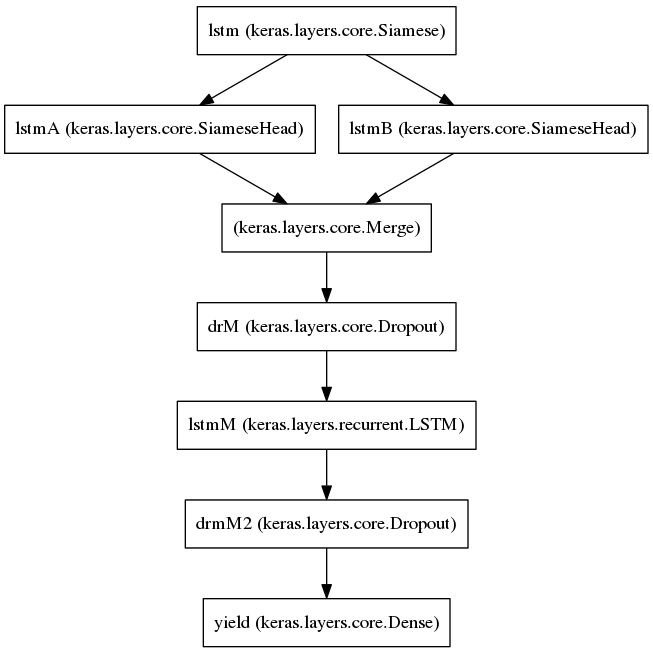
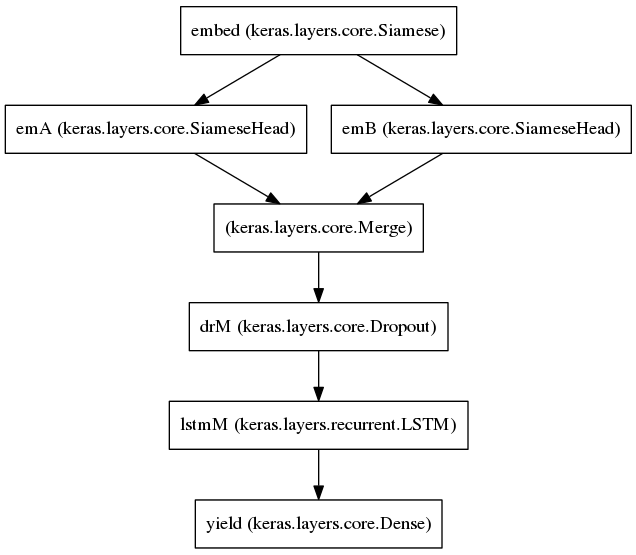
Simpler FP->yield model, still not working - Same output predicted for everything

Changed region(s): [[0.0, 0.0, 1.0, 1.0]]

diff --git a/makeit/main/neural_fingerprints_to_yield.py b/makeit/main/neural_fingerprints_to_yield.py
@@ -22,36 +22,51 @@ def get_model_fpath():
 		return fpath + '_{}'.format(flabel)
 	return fpath
 
-def build_model(fp_size = 2048, embedding_size = 100, dropout = 0.75):
+def build_model(fp_size = 2048, embedding_size = 8, dropout = 0.75):
 	'''Uses fingerprints for two chemicals to predict the yield of a reaction
 	between them, ignoring the chemical species of that product'''
 
 	# Base model
 	model = Graph()
 
+	# # Inputs
+	# model.add_input(name = 'fpA', input_shape = (fp_size, ), dtype = 'bool')
+	# model.add_input(name = 'fpB', input_shape = (fp_size, ), dtype = 'bool')
+	# # Embebdding
+	# embedding = Embedding(output_dim = embedding_size, input_dim = fp_size, 
+	# 	init = 'glorot_normal')
+	# model.add_shared_node(embedding, 'embed', inputs = ['fpA', 'fpB'], 
+	# 	outputs = ['emA', 'emB'])
+	# model.add_shared_node(Dropout(dropout), 'dropout', inputs = ['emA', 'emB'], 
+	# 	outputs = ['drA', 'drB'])
+	# model.add_shared_node(LSTM(output_dim = embedding_size, activation = 'tanh', 
+	# 	return_sequences = True), 'lstm', inputs = ['drA', 'drB'], 
+	# 	outputs = ['lstmA', 'lstmB'])
+	# # Merge
+	# model.add_node(Dropout(dropout), name = 'drM', inputs = ['lstmA', 'lstmB'], 
+	# 	merge_mode = 'concat')
+	# model.add_node(LSTM(output_dim = 2 * embedding_size, activation = 'tanh', 
+	# 	return_sequences = False), 'lstmM', input = 'drM')
+	# model.add_node(Dropout(dropout), name = 'drmM2', input = 'lstmM')
+	# model.add_node(Dense(1, activation = 'linear'), name = 'denseM',
+	# 	input = 'drmM2')
+	# model.add_output(name = 'yield', input = 'denseM')
+
 	# Inputs
 	model.add_input(name = 'fpA', input_shape = (fp_size, ), dtype = 'bool')
 	model.add_input(name = 'fpB', input_shape = (fp_size, ), dtype = 'bool')
-
 	# Embebdding
 	embedding = Embedding(output_dim = embedding_size, input_dim = fp_size, 
 		init = 'glorot_normal')
 	model.add_shared_node(embedding, 'embed', inputs = ['fpA', 'fpB'], 
 		outputs = ['emA', 'emB'])
-	model.add_shared_node(Dropout(dropout), 'dropout', inputs = ['emA', 'emB'], 
-		outputs = ['drA', 'drB'])
-	model.add_shared_node(LSTM(output_dim = embedding_size, activation = 'tanh', 
-		return_sequences = True), 'lstm', inputs = ['drA', 'drB'], 
-		outputs = ['lstmA', 'lstmB'])
-
 	# Merge
-	model.add_node(Dropout(dropout), name = 'drM', inputs = ['lstmA', 'lstmB'], 
+	model.add_node(Dropout(dropout), name = 'drM', inputs = ['emA', 'emB'], 
 		merge_mode = 'concat')
 	model.add_node(LSTM(output_dim = 2 * embedding_size, activation = 'tanh', 
-		return_sequences = False), 'lstmM', input = 'drM')
-	model.add_node(Dropout(dropout), name = 'drmM2', input = 'lstmM')
+	 	return_sequences = False), 'lstmM', input = 'drM')
 	model.add_node(Dense(1, activation = 'linear'), name = 'denseM',
-		input = 'drmM2')
+		input = 'lstmM')
 	model.add_output(name = 'yield', input = 'denseM')
 
 	# Compile
@@ -166,8 +181,7 @@ def test_model(model, data_fpath):
 		fid.write('Detailed model test:\n')
 		fid.write('test entry\tactual yield\tpredicted yield\n')
 		for i in range(len(fpA_test)):
-			fid.write('{}\t{}\t{}\t{}\n'.format(i, yields_test[i], 
-					yields_predicted[i]))
+			fid.write('{}\t{}\t{}\n'.format(i, yields_test[i], yields_predicted[i]))
 
 	# Create parity plot
 	plt.scatter(yields_test, yields_predicted, alpha = 0.2)
@@ -175,7 +189,7 @@ def test_model(model, data_fpath):
 	plt.ylabel('Predicted yield')
 	plt.title('Parity plot for yield prediction')
 	plt.grid(True)
-	plt.axis([0, 1, 0, 1])
+	#plt.axis([0, 1, 0, 1])
 	plt.show()
 
 	return score
@@ -189,9 +203,6 @@ if __name__ == '__main__':
 			  ' name if a unique identifier is desired')
 		quit(1)
 
-	# get_data(sys.argv[1])
-	# quit(1)
-
 	# Get model label
 	if len(sys.argv) == 3:
 		flabel = sys.argv[2]
@@ -200,26 +211,9 @@ if __name__ == '__main__':
 
 	# See if the model exists in this location already
 	fpath = get_model_fpath()
-	structure_fpath = fpath + '.json'
-	use_old = True
-	if os.path.isfile(structure_fpath):
-		use_old = raw_input('Use existing model structure [y/n]? ')
-		use_old = input_to_bool(use_old)
-	else:
-		use_old = False
-	if use_old:
-		# Load model
-		with open(structure_fpath, 'r') as structure_fid:
-			model = model_from_json(json.load(structure_fid))
-			print('...loaded structural information')
-	else:
-		# Build model
-		model = build_model(fp_size = 2048, embedding_size = 100, dropout = 0.75)
-		print('...built untrained model')
-		# Save for future
-		print('...saving model')
-		save_model(model, sys.argv[1])
-		print('...saved model')
+	# Build model
+	model = build_model(fp_size = 2048, embedding_size = 100, dropout = 0.75)
+	print('...built untrained model')
 
 	# See if weights exist in this location already
 	weights_fpath = fpath + '.h5'
@@ -233,7 +227,7 @@ if __name__ == '__main__':
 	# Train model
 	print('...training model')
 	hist = None
-	(model, hist) = train_model(model, sys.argv[1], nb_epoch = 1, batch_size = 16)
+	(model, hist) = train_model(model, sys.argv[1], nb_epoch = 1, batch_size = 300)
 	print('...trained model')
 
 	# Save for future
